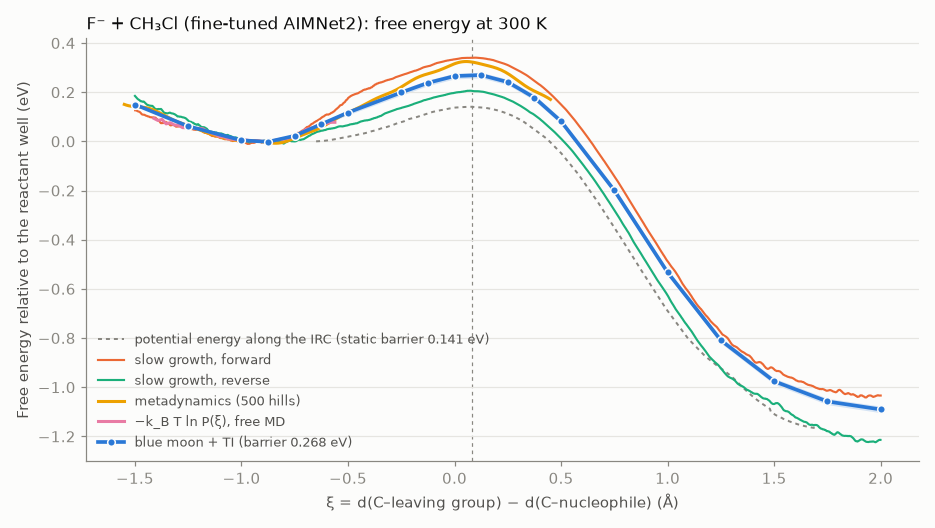
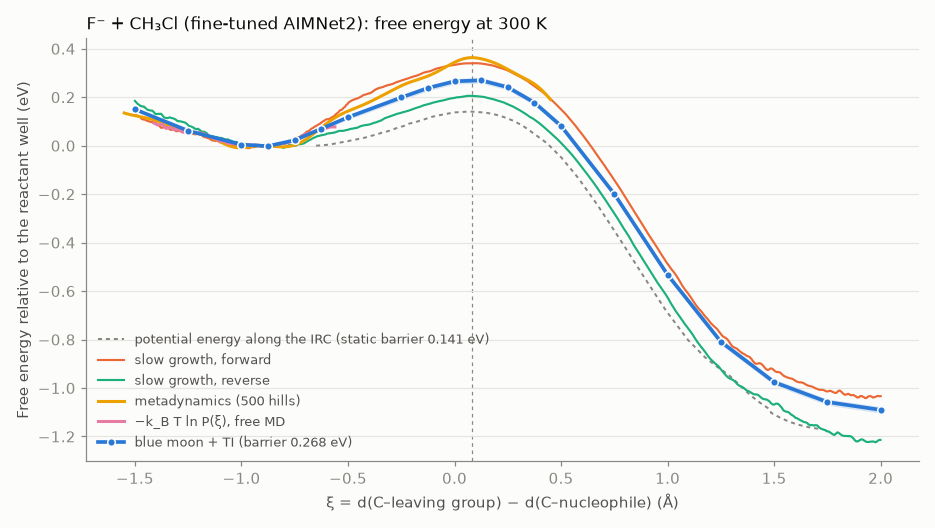
SN2 free-energy example: literature comparison, SAMSON runs, and a clip
- Compare with the literature: CCSD(T)-quality static barriers (Szabo,
  Csaszar, Czako 2013; Parthiban, de Oliveira, Martin 2001) and Bucko's PW91
  blue moon (2008), which is where the tutorial's 0.418 eV comes from.
- Metadynamics rerun with fixcm=False: 0.37 eV (earlier run 0.33), both
  above blue moon, most likely because the F- approach angle relaxes slowly.
- Running the methods as bridge jobs from SAMSON: blue moon reproduces
  xi* and the generalized velocity, and one slow-growth seed shows the
  side-on approach (0.83 eV, against 0.30 and 0.32 eV for two other seeds).
- samson_clip.py renders a SAMSON path through the bridge; the README shows
  the Walden inversion from a slow-growth job.

diff --git a/examples/sn2_free_energy/samson_clip.py b/examples/sn2_free_energy/samson_clip.py
@@ -1,0 +1,153 @@
+"""Render a SAMSON path (for example a bridge slow_growth run) as a clip.
+
+    python samson_clip.py "<path name prefix>" OUTDIR [--fps F] [--size WxH] [--title T]
+
+Needs the bridge running in SAMSON with python.exec allowed. Run it with any Python
+that has numpy and Pillow; everything goes through the bridge:
+
+1. Read every frame of the path (python.exec steps it, structure.get reads it).
+2. Align the frames for viewing: centre of mass on the camera target and overall
+   rotation removed (mass-weighted Kabsch against the first frame), with the first
+   frame's nucleophile→leaving-group axis along the screen x of SAMSON's front
+   view. Only the tumbling of the free molecule is removed.
+3. Add a carbon–nucleophile bond (one undo step, removed at the end), then for each
+   frame write the aligned positions into SAMSON without an undo step, show one
+   carbon–halogen bond (to whichever halogen is less stretched relative to its
+   equilibrium bond length; a drawing convention, not a bond order), capture the
+   viewport, and label it with ξ and both distances.
+
+Each frame is its own request, so SAMSON keeps processing events. Writes
+OUTDIR/frames/*.png, clip.gif and clip.webp, and leaves the path on its first frame.
+The nucleophile and leaving group must be different elements.
+"""
+
+import argparse
+import json
+import sys
+from pathlib import Path
+
+import numpy as np
+from PIL import Image, ImageDraw, ImageFont
+
+sys.path.insert(0, str(Path(__file__).resolve().parents[2] / "src"))
+from samson_mlip_visualizer.remote.client import SamsonClient  # noqa: E402
+
+MASSES = {"H": 1.008, "C": 12.011, "N": 14.007, "O": 15.999, "F": 18.998, "Cl": 35.453,
+          "Br": 79.904, "I": 126.904}
+BOND_TO_CARBON = {"F": 1.38, "Cl": 1.79, "Br": 1.94, "I": 2.14, "O": 1.43, "N": 1.47}
+
+parser = argparse.ArgumentParser()
+parser.add_argument("path_prefix")
+parser.add_argument("outdir")
+parser.add_argument("--fps", type=float, default=15)
+parser.add_argument("--size", default="960x600")
+parser.add_argument("--fs-per-frame", type=float, default=20.0)
+parser.add_argument("--carbon", type=int, default=0)
+parser.add_argument("--nucleophile", type=int, default=5)
+parser.add_argument("--leaving", type=int, default=4)
+parser.add_argument("--title", default="F⁻ + CH₃Cl, fine-tuned AIMNet2, slow growth at 300 K")
+args = parser.parse_args()
+width, height = (int(v) for v in args.size.split("x"))
+out = Path(args.outdir)
+(out / "frames").mkdir(parents=True, exist_ok=True)
+client = SamsonClient.from_connection_file(timeout=120)
+
+
+def execute(code):
+    return client.call("python.exec", code=code)["result"]
+
+
+find = ("p = [n for n in SAMSON.getNodes('node.type path') "
+        f"if n.name.startswith({args.path_prefix!r})][0]\n")
+symbols = client.call("structure.get")["symbols"]
+nucleophile, leaving = symbols[args.nucleophile], symbols[args.leaving]
+if nucleophile == leaving:
+    raise SystemExit("the nucleophile and the leaving group must be different elements")
+m = np.array([MASSES[s] for s in symbols])
+steps = int(execute(find + "int(p.numberOfSteps)"))
+frames = []
+for k in range(steps):
+    execute(find + f"p.currentStep = {k}")
+    frames.append(np.asarray(client.call("structure.get")["positions"]))
+print(f"read {steps} frames")
+
+# SAMSON's front view looks along +y with +z up, so screen x is world x.
+execute("SAMSON.getActiveCamera().frontView()")
+target = np.array([float(v.split()[0]) / 100 for v in  # pm → Å
+                   execute("str(SAMSON.getActiveCamera().getTargetPosition())")
+                   .strip("'()").split(",")])
+
+
+def centred(x):
+    return x - (m[:, None] * x).sum(0) / m.sum()
+
+
+ref = centred(frames[0])
+axis = ref[args.leaving] - ref[args.nucleophile]
+axis /= np.linalg.norm(axis)
+v, c = np.cross(axis, [1.0, 0.0, 0.0]), axis[0]
+vx = np.array([[0, -v[2], v[1]], [v[2], 0, -v[0]], [-v[1], v[0], 0]])
+turn = np.diag([-1.0, -1.0, 1.0]) if c < -0.999 else np.eye(3) + vx + vx @ vx / (1 + c)
+ref = ref @ turn.T  # Rodrigues: axis → +x
+aligned = []
+for x in frames:
+    x = centred(x)
+    u, _, vt = np.linalg.svd((m[:, None] * x).T @ ref)
+    rotation = vt.T @ np.diag([1, 1, np.sign(np.linalg.det(vt.T @ u.T))]) @ u.T
+    aligned.append(x @ rotation.T + target)
+
+bonds = (f"atoms = list(SAMSON.getNodes('node.type atom'))\n"
+         f"carbon, nucleophile = atoms[{args.carbon}], atoms[{args.nucleophile}]\n")
+execute(bonds + "SAMSON.beginHolding('Clip: carbon-nucleophile bond')\n"
+        "bond = samson.SBBond(carbon, nucleophile)\nbond.create()\n"
+        "list(SAMSON.getNodes('node.type structuralModel'))[0]"
+        ".getStructuralRoot().addChild(bond)\nSAMSON.endHolding()")
+show_bonds = ("for b in SAMSON.getNodes('node.type bond'):\n"
+              "    ends = {str(b.leftAtom.elementSymbol), str(b.rightAtom.elementSymbol)}\n"
+              f"    if ends == {{'C', {leaving!r}}}: b.visibilityFlag = LEAVING\n"
+              f"    if ends == {{'C', {nucleophile!r}}}: b.visibilityFlag = NUCLEOPHILE\n")
+write = ("from samson_mlip_visualizer.samson_bridge import extract_structure, sync_positions\n"
+         "sync_positions(extract_structure(SAMSON), np.array(POSITIONS), samson=SAMSON, "
+         "process_events=False)\n" + show_bonds)
+font = ImageFont.truetype("segoeui.ttf", 22)
+small_font = ImageFont.truetype("segoeui.ttf", 17)
+images = []
+try:
+    for k, x in enumerate(aligned):
+        d_leaving = np.linalg.norm(x[args.carbon] - x[args.leaving])
+        d_nucleophile = np.linalg.norm(x[args.carbon] - x[args.nucleophile])
+        swapped = bool(d_nucleophile / BOND_TO_CARBON[nucleophile]
+                       < d_leaving / BOND_TO_CARBON[leaving])
+        execute(write.replace("POSITIONS", json.dumps(np.round(x, 5).tolist()))
+                .replace("NUCLEOPHILE", str(swapped)).replace("LEAVING", str(not swapped)))
+        png = out / "frames" / f"frame_{k:04d}.png"
+        # Capture 1.5× larger and keep the centre: closer, without the navigation cube.
+        client.call("view.capture", path=str(png), width=width * 3 // 2,
+                    height=height * 3 // 2)
+        image = Image.open(png).convert("RGB").crop(
+            (width // 4, height // 4, width // 4 + width, height // 4 + height))
+        draw = ImageDraw.Draw(image)
+        draw.text((18, 14), f"ξ = {d_leaving - d_nucleophile:+.2f} Å    "
+                  f"d(C–{nucleophile}) = {d_nucleophile:.2f} Å    "
+                  f"d(C–{leaving}) = {d_leaving:.2f} Å", fill=(20, 20, 20), font=font)
+        draw.text((18, 44), f"t = {k * args.fs_per_frame / 1000:.2f} ps    {args.title}",
+                  fill=(60, 60, 60), font=small_font)
+        image.save(png)
+        images.append(image)
+        if k % 20 == 0:
+            print(f"frame {k:4d}  ξ {d_leaving - d_nucleophile:+.3f}", flush=True)
+finally:
+    execute(bonds + "SAMSON.beginHolding('Clip: remove the carbon-nucleophile bond')\n"
+            + show_bonds.replace("LEAVING", "True").replace("NUCLEOPHILE", "True")
+            + "for b in list(SAMSON.getNodes('node.type bond')):\n"
+            f"    if {{str(b.leftAtom.elementSymbol), str(b.rightAtom.elementSymbol)}} == "
+            f"{{'C', {nucleophile!r}}}: b.erase()\nSAMSON.endHolding()\n"
+            + find + "p.currentStep = 0")
+
+duration = int(1000 / args.fps)
+small = [im.resize((width * 2 // 3, height * 2 // 3), Image.LANCZOS) for im in images]
+small[0].save(out / "clip.gif", save_all=True, append_images=small[1:], duration=duration,
+              loop=0, optimize=True)
+images[0].save(out / "clip.webp", save_all=True, append_images=images[1:],
+               duration=duration, loop=0, quality=85)
+print(f"wrote {out / 'clip.gif'} and {out / 'clip.webp'}")

diff --git a/examples/sn2_free_energy/README.md b/examples/sn2_free_energy/README.md
@@ -26,9 +26,10 @@ crosses zero. The grey dashes show the potential energy along the model's IRC.*
     over a wide range of ξ (−1.7 to −0.5 Å in 20 ps of free MD), and the free
     minimum sits at ξ = −0.91 Å, not at the static complex (−0.65 Å). At the
     TS, the three heavy atoms are locked in a line.
-- **The independent estimates agree.**
-  - Well-tempered metadynamics gives 0.33 eV. That is within its own run-to-run drift
-    (about ±0.04 eV over the last 200 hills) of the blue-moon value.
+- **The independent estimates agree on the picture; only blue moon pins the
+  number.**
+  - Two well-tempered metadynamics runs give 0.33 and 0.37 eV, still drifting
+    after 50 ps. That is 0.05–0.1 eV above the blue-moon value.
   - The reactant well of −k_BT ln P(ξ) from free MD lies on top of the
     blue-moon profile.
   - The rate formula gives k = 3.5 × 10⁸ s⁻¹ from the complex and a
@@ -111,7 +112,7 @@ The static curve is the fine-tuned model's potential energy along its own IRC.
 | reactant free-energy minimum ξ_min          | −0.91 Å (blue moon), −0.89 Å (peak of P(ξ))                |
 | ξ* (top of the barrier)                     | +0.08 Å                                                    |
 | **ΔA‡, blue moon + TI**                     | **0.268 eV (6.19 kcal/mol)**, ± 0.01 eV                    |
-| ΔA‡, well-tempered metadynamics             | 0.33 eV (0.24–0.33 over the run), 42 barrier crossings      |
+| ΔA‡, well-tempered metadynamics             | 0.37 eV (0.21–0.37 over the run; a second run 0.33 eV)      |
 | ΔA‡, slow growth forward / reverse          | 0.351 / 0.215 eV (hysteresis up to 0.25 eV)                |
 | ΔE‡, static, from the complex               | 0.141 eV (3.25 kcal/mol)                                   |
 | ΔA, well → ξ = 2.0 Å (products)             | −1.09 ± 0.01 eV                                            |
@@ -124,22 +125,32 @@ The metadynamics run needed one correction. With the upper wall at ξ = +1.0 Å,
 the walker crossed the barrier once, after 12 ps, and never came back: the
 product side is 1 eV downhill, and 50 ps of 20 meV hills could not fill it. Its
 barrier (0.31 eV) therefore rested on a single crossing. With the wall at
-+0.5 Å, just past ξ*, it went from the well to beyond the TS and back 42 times.
++0.5 Å, just past ξ*, it went from the well to beyond the TS and back 30 times.
 
 The barrier read from the accumulated bias still moves:
-- 0.29 eV after 100 hills;
-- 0.24 eV after 200;
-- 0.33 eV after 300;
-- 0.32 eV after 400;
-- 0.33 eV after 500.
+- 0.21 eV after 100 hills;
+- 0.29 eV after 200;
+- 0.32 eV after 300;
+- 0.33 eV after 400;
+- 0.37 eV after 500.
 
-The final hills are 3 meV high.
+The final hills are 3 meV high. An earlier run with the same settings ended at
+0.33 eV. That run used ASE's Langevin default `fixcm=True`, which ASE warns
+skews NVT sampling for small systems; the library now uses `fixcm=False`.
 
-Metadynamics is the cheapest route to the whole profile, but here it does not
-pin the barrier down to better than about 0.05 eV. The ~0.06 eV it sits above
-the blue-moon value is within that. A longer run, or several walkers, would
-settle it. The blue-moon integration, 20 independent windows with per-window
-error bars, is the number to quote.
+Both runs end 0.05–0.1 eV above the blue-moon value, and both are still
+rising. The likely cause is the same one that hurts slow growth: the angle
+at which F⁻ approaches relaxes slowly compared with the hill deposition, so
+the bias partly fills a side-on approach instead of the backside barrier.
+(A slow-growth run through the SAMSON bridge showed this directly. With one
+seed, F⁻ was pulled in about 50° off the backside line, and the barrier came
+out at 0.83 eV. Two other seeds gave 0.30 and 0.32 eV.)
+
+Metadynamics is the cheapest route to the whole profile, but on one
+coordinate it does not pin this barrier down. The blue-moon integration is
+the number to quote: 20 independent, equilibrated windows with per-window
+error bars. Metadynamics on ξ together with the F–C–Cl angle would be the
+fix, and it would be a two-dimensional extension of the bias.
 
 ## Comparison: Cl⁻ + CH₃Cl (GFN2-xTB), the tutorial's system
 
@@ -160,7 +171,7 @@ image of the forward start, with the two chlorines swapped.
 | Quantity                                | GFN2-xTB (here)                                  | VASP tutorial (MLFF)        |
 | --------------------------------------- | ------------------------------------------------ | --------------------------- |
 | reactant free-energy minimum             | ξ = −1.41 Å (blue moon), −1.47 Å (peak of P(ξ))  | ξ_ref = −1.5 Å              |
-| **ΔA‡, blue moon + TI**                  | **0.512 eV (11.8 kcal/mol)**, ± 0.01 eV          | literature blue moon 0.418 eV |
+| **ΔA‡, blue moon + TI**                  | **0.512 eV (11.8 kcal/mol)**, ± 0.01 eV          | 0.418 eV (cited blue moon)  |
 | ΔA‡, slow growth forward / reverse       | 0.64 / 0.55 eV, each from its own start (hysteresis up to 0.21 eV) | 0.406 eV (forward) |
 | ΔE‡, static, from the complex (ξ = −1.17 Å) | 0.460 eV (10.6 kcal/mol)                     | —                           |
 | P(ξ_ref)                                 | 2.30 Å⁻¹                                         | 1.54 Å⁻¹                    |
@@ -181,16 +192,116 @@ What agrees:
 What differs:
 - **The forward slow growth** overshoots by 0.13 eV and ends 0.17 eV above its
   start.
-- **The barrier** is higher than the tutorial's. The tutorial does not say
-  which functional its force field was trained on, and GGA functionals are
-  known to underestimate SN2 barriers. So the 0.1 eV gap says more about the
-  reference potentials than about xTB. For F⁻, where the model was fitted to
-  CCSD(T)-quality data, the static barrier is right.
+- **The barrier** is higher than the tutorial's. The literature value the
+  tutorial cites is from a PW91 (GGA) study, and PW91 puts the static barrier
+  5 kcal/mol below coupled cluster, against xTB's 3 kcal/mol (see
+  [the literature comparison](#comparison-with-the-literature)). So xTB's higher
+  barrier is the less wrong one, and both are too low.
 
 Entropy raises the Cl⁻ barrier much less than the F⁻ one: 0.05 eV above the
 static value here, against 0.13 eV for F⁻. In free MD the chloride drifts out to
 the 5 Å wall (the flat stretch of −k_BT ln P(ξ) below ξ = −2 Å). Most of that
 extra room lies beyond the part of the well that sets the barrier.
+
+## Comparison with the literature
+
+The high-level references are static (electronic) energies; the only
+finite-temperature free-energy barrier found for either reaction is Bučko's
+PW91 blue-moon study of Cl⁻ + CH₃Cl, which is where the VASP tutorial's
+comparison value comes from.
+
+| Quantity | Here | Literature |
+| --- | --- | --- |
+| **F⁻ + CH₃Cl**, static barrier from the C₃ᵥ complex | 3.25 kcal/mol (fine-tuned AIMNet2) | 3.39 kcal/mol, CCSD(T)-based focal point [1] |
+| F⁻ + CH₃Cl, entrance → exit complex | ΔA = −25.1 kcal/mol (well → ξ = 2 Å, free energy) | ΔE = −26.0 kcal/mol (electronic, complex to complex) [1] |
+| F⁻ + CH₃Cl, free-energy barrier at 300 K | 6.2 kcal/mol | none found |
+| **Cl⁻ + CH₃Cl**, static central barrier | 10.6 kcal/mol (GFN2-xTB) | 13.6 kcal/mol, W1′ and W2h [2]; 8.6 kcal/mol, PW91 [3] |
+| Cl⁻ + CH₃Cl, blue-moon barrier on ξ = d₁ − d₂, 300 K | 11.8 kcal/mol (0.512 eV, xTB) | 10.8 kcal/mol (0.466 eV), PW91 [3] |
+| thermal rise of the barrier (free − static) | +1.2 (Cl, xTB), +2.9 kcal/mol (F) | +2.2 kcal/mol, PW91, Cl [3] |
+| shift of the reactant minimum in ξ at 300 K | 0.24 Å (Cl), 0.26 Å (F) | 0.2 Å (1.3 → 1.5 Å), PW91, Cl [3] |
+
+What this says:
+
+- **The F⁻ model is right where it can be checked.** Its static barrier and
+  reaction energy match the coupled-cluster values to about 1 kcal/mol, the
+  accuracy it was fitted for. Nobody seems to have published a free-energy
+  barrier for F⁻ + CH₃Cl to compare the 6.2 kcal/mol against.
+- **The thermal part behaves as in the one published study.** Bučko's PW91
+  blue moon for Cl⁻ + CH₃Cl found the same two effects seen here: the barrier
+  rises with temperature (by 2.2 kcal/mol) and the reactant minimum moves
+  about 0.2 Å outward along ξ. Here the rise is 2.9 kcal/mol for F⁻ and
+  1.2 kcal/mol for Cl⁻ with xTB, and the minima move 0.26 and 0.24 Å.
+- **For Cl⁻ + CH₃Cl, both low-level potentials are too low.** xTB's static
+  barrier is 3 kcal/mol below W1′/W2h, and PW91's is 5 kcal/mol below. Adding a
+  thermal rise of about 1–2 kcal/mol to 13.6 suggests a classical free-energy
+  barrier near 15 kcal/mol (0.65 eV). That is an estimate, not a computed
+  number; the way to get it is the fine-tune-then-blue-moon route used for F⁻.
+- **The value the tutorial cites (0.418 eV) matches Bučko's two-coordinate
+  result (40 kJ/mol).** The one-coordinate value on ξ = d₁ − d₂, the coordinate
+  used here and in the tutorial, is 45 kJ/mol (0.466 eV). Bučko shows the
+  barrier depends by about 0.05 eV on the choice of coordinate.
+- **The rate constants have no experimental counterpart.** They are canonical
+  transition-state-theory rates for crossing from a thermalized complex. In
+  the gas phase the complex is not thermalized and, for F⁻, the TS lies
+  12 kcal/mol below the separated reactants [1]. Trajectory studies also find
+  barrier recrossing and non-statistical behaviour for Cl⁻ + CH₃Cl [4] and
+  F⁻ + CH₃Cl [5]. The rates are the tutorial's quantity, computed the
+  tutorial's way; they are not predictions of a measured rate.
+
+[1] I. Szabó, A. G. Császár, G. Czakó, *Chem. Sci.* **4**, 4362 (2013),
+doi:10.1039/c3sc52157e.
+[2] S. Parthiban, G. de Oliveira, J. M. L. Martin, *J. Phys. Chem. A* **105**,
+895 (2001), doi:10.1021/jp0031000.
+[3] T. Bučko, *J. Phys.: Condens. Matter* **20**, 064211 (2008),
+doi:10.1088/0953-8984/20/6/064211.
+[4] L. Sun, K. Song, W. L. Hase, *J. Am. Chem. Soc.* **123**, 5753 (2001),
+doi:10.1021/ja004077z.
+[5] H. Wang, W. L. Hase, *J. Am. Chem. Soc.* **119**, 3093 (1997),
+doi:10.1021/ja962622j.
+
+## Running it from SAMSON
+
+The same methods are bridge jobs, `slow_growth`, `blue_moon` and
+`metadynamics` (see [`docs/samson_api.md`](../../docs/samson_api.md)). Each
+works on the open structure with any backend, shows the run live, and leaves
+its frames as a path that can be scrubbed.
+
+With the complex open in SAMSON, an assistant (or `samson_start_job`) runs
+blue moon with:
+
+```json
+{"kind": "blue_moon", "options": {
+  "backend": "aimnet2", "model": "<aimnet env python>", "aimnet_model": "<fine-tuned .pt>",
+  "charge": -1, "coordinate": "0-4, 0-5:-1", "values": [-0.9, -0.6, -0.3, -0.1, 0.1, 0.3],
+  "steps": 1200, "skip": 300, "hydrogen_mass": 3, "timestep_fs": 2}}
+```
+
+The job returns:
+- the integrated profile with its error;
+- `xi_min`, `xi_star`, and `barrier_ev`;
+- the generalized velocity at the TS window.
+
+That call took 14 minutes in SAMSON on the laptop. It found:
+- ξ* = 0.080 Å, the same as the 20-window run above;
+- A(ξ*) = 0.25 eV above the ξ = −0.9 Å window;
+- ⟨|ξ̇*|⟩ = 8.09 × 10¹² Å/s, also the same.
+
+The mean force is already slightly positive at ξ = −0.9 Å, so the minimum lies
+just below the first window. The job then reports the barrier from the lowest
+window as a lower bound and says to add windows at lower ξ.
+
+![Slow growth over the Walden barrier, rendered in SAMSON](images/walden_slow_growth.gif)
+
+*A slow-growth job run from SAMSON (seed 1, ξ from −0.9 to +1.2 Å in 4.2 ps,
+barrier 0.30 eV), rendered frame by frame through the bridge with
+[`samson_clip.py`](samson_clip.py). F⁻ comes in from the back, the CH₃
+umbrella turns inside out, and Cl⁻ leaves. The molecule's overall tumbling is
+removed for viewing. One carbon–halogen stick is drawn, to whichever halogen
+is less stretched relative to its bond length.*
+
+Run slow growth from SAMSON with several seeds. One seed there pulled F⁻ in
+about 50° off the backside line and gave 0.83 eV; seeds 1 and 2 gave 0.30 and
+0.32 eV.
 
 ## Reproducing
 
@@ -224,3 +335,4 @@ in parallel.
 | [`run.py`](run.py)                      | one task: `slow_growth forward\|reverse`, `window XI`, `free_md`, `ts_velocity XI`, `metadynamics`      |
 | [`launch.py`](launch.py)                | runs the tasks in parallel                                                                             |
 | [`analyze.py`](analyze.py)              | integration, errors, hysteresis, P(ξ), rate, metadynamics free energy, figures                         |
+| [`samson_clip.py`](samson_clip.py)      | renders a SAMSON path (such as a bridge `slow_growth` run) into a GIF/WebP through the bridge          |
